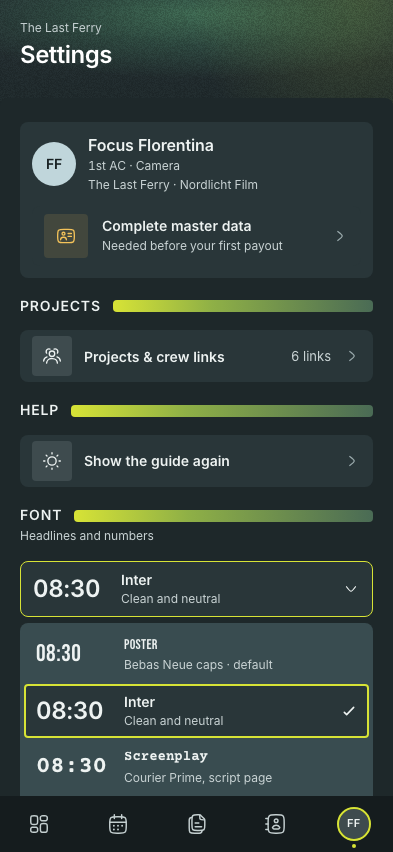
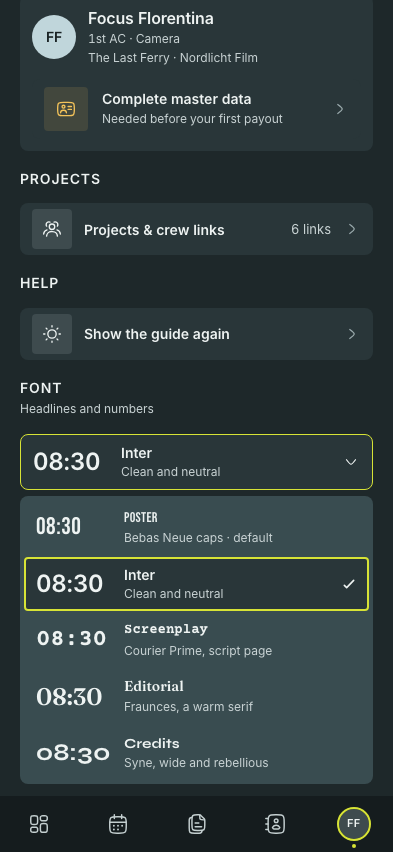
Settings: scroll the open font list clear of the dock

diff --git a/src/screens/SettingsScreen.tsx b/src/screens/SettingsScreen.tsx
@@ -62,6 +62,7 @@ function FontSelect({ value, onChange }: { value: FontTheme; onChange: (v: FontT
   useEffect(() => {
     if (!open) return;
     root.current?.querySelector<HTMLElement>('[aria-selected="true"]')?.focus();
+    root.current?.querySelector('.fontsel-list')?.scrollIntoView({ block: 'nearest' });
     const away = (e: PointerEvent) => {
       if (!root.current?.contains(e.target as Node)) setOpen(false);
     };

diff --git a/src/styles/screens.css b/src/styles/screens.css
@@ -640,6 +640,7 @@
   border-color: var(--lime);
 }
 .fontsel-list {
+  scroll-margin-bottom: calc(56px + env(safe-area-inset-bottom) + var(--sp-3));
   display: flex;
   flex-direction: column;
   gap: 2px;
